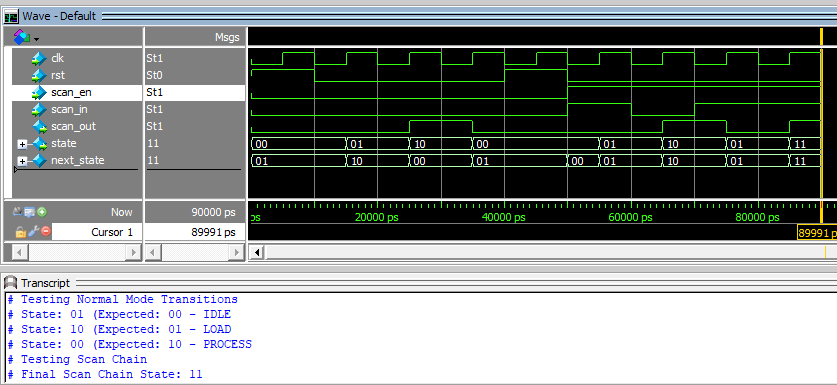
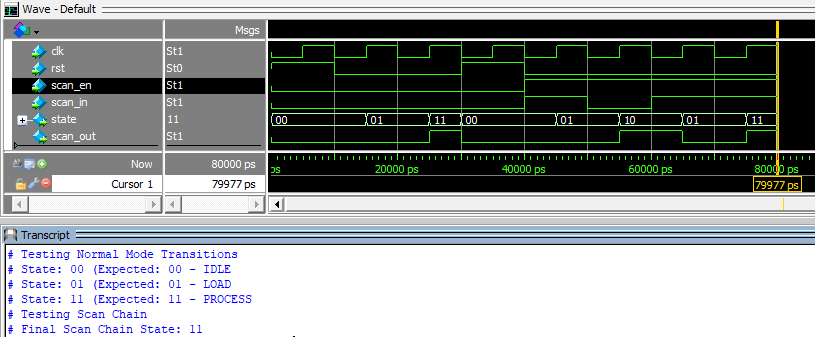
update RTL Design

diff --git a/Scan_Chain/FSM_Scan_Chain/README.md b/Scan_Chain/FSM_Scan_Chain/README.md
@@ -54,42 +54,29 @@ module fsm_with_scan(
 	output reg [1:0] state
 );
 
-	// State encoding
+		// State encoding 
 	localparam IDLE = 2'b00;
 	localparam LOAD = 2'b01;
-	localparam PROCESS = 2'b10;
+	localparam PROCESS = 2'b11;
 	
-	reg [1:0] next_state;
-	
-	// State transition logic (combinational)
-always @(*) begin 
-	if(!scan_en) begin
-		case (state)
-			IDLE: next_state = LOAD; // Example transition from IDLE to LOAD 
-			LOAD: next_state = PROCESS; // Example transition from LOAD to PROCESS 
-			PROCESS: next_state = IDLE; // Example transition from PROCESS to IDLE 
-			default: next_state = IDLE; // Default state 
-		endcase
-	end else begin 
-		next_state = state; // Maintain current state in scan mode 
-	end
-end 
-	
-	// State update logic (sequential) 
-always @(posedge clk or posedge rst) begin 
-	if(rst) begin 
-		state <= IDLE; // Reset to IDLE state 
-	end else if (!scan_en) begin 
-		state <= next_state; // Update state in normal mode 
-	end else begin 
-		// shift state bits in scan mode 
-		state <= {state[0], scan_in};
-	end
-end 
+	// State transition 
+	always @(posedge clk or posedge rst) begin 
+		if(rst) begin 
+			state <= IDLE;
+		end else if(scan_en) begin 
+			state <= {state[0], scan_in};
+		end else begin 
+			case (state)
+				IDLE: state <= LOAD;
+				LOAD: state <= PROCESS;
+				PROCESS: state <= IDLE;
+				default: state <= IDLE;
+			endcase 
+		end
+	end 
 
-	// Assign scan output (MSB of scan_register) 
 	assign scan_out = state[1];
-endmodule 
+endmodule
 ```
 
 ## Testbench
@@ -120,12 +107,12 @@ initial begin
 	
 	// Test normal mode transitions
 	$display("Testing Normal Mode Transitions");
-	#10; // IDLE to LOAD 
+	// IDLE to LOAD 
 	$display("State: %b (Expected: 00 - IDLE", state);
 	#10; // LOAD to PROCESS
 	$display("State: %b (Expected: 01 - LOAD", state);
 	#10; // PROCESS to IDLE 
-	$display("State: %b (Expected: 10 - PROCESS", state);
+	$display("State: %b (Expected: 11 - PROCESS", state);
 	
 	// Test scan chian functionality 
 	$display("Testing Scan Chain");
